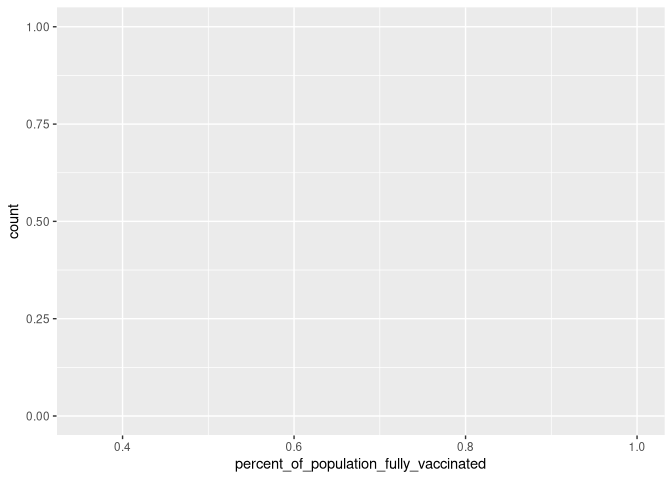
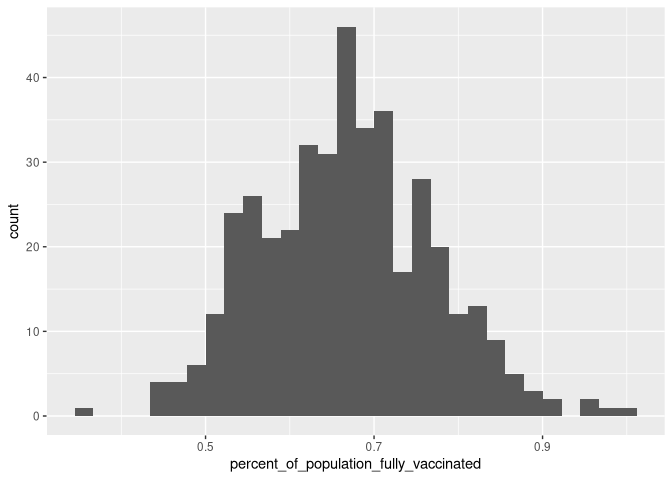
Knit to github document

diff --git a/class_17/lab_17-Reddan.md b/class_17/lab_17-Reddan.md
@@ -93,15 +93,15 @@ head(vax)
     ## 5 Information redacted in accordance with CA state privacy requirements
     ## 6 Information redacted in accordance with CA state privacy requirements
 
-#### \[Q01\]: What column details the total number of people fully vaccinated?
+Q01: What column details the total number of people fully vaccinated?
 
 `persons_fully_vaccinated`
 
-#### \[Q02\]: What column details the Zip code tabulation area?
+Q02: What column details the Zip code tabulation area?
 
 `zip_code_tabulation_area`
 
-#### \[Q03\]: What is the earliest date in this dataset?
+Q03: What is the earliest date in this dataset?
 
 ``` r
 vax %>% 
@@ -111,7 +111,7 @@ vax %>%
 
     ## [1] "2021-01-05"
 
-#### \[Q04\]: What is the latest date in this dataset?
+Q04: What is the latest date in this dataset?
 
 ``` r
 vax %>%
@@ -163,15 +163,17 @@ Data summary
 | percent_of_population_partially_vaccinated |      8355 |          0.90 |     0.10 |     0.10 |     0 |     0.06 |     0.07 |     0.11 |      1.0 | ▇▁▁▁▁ |
 | percent_of_population_with_1\_plus_dose    |      8355 |          0.90 |     0.51 |     0.26 |     0 |     0.31 |     0.53 |     0.71 |      1.0 | ▅▅▇▇▃ |
 
-#### \[Q05\]: How many numeric columns are in this dataset?
+Q05: How many numeric columns are in this dataset?
 
 9
 
-#### \[Q06\]: Note that there are “missing values” in the dataset. How many `NA` values there in the `persons_fully_vaccinated` column?
+Q06: Note that there are “missing values” in the dataset. How many `NA`
+values there in the `persons_fully_vaccinated` column?
 
 8355
 
-#### \[Q07\]: What percent of `persons_fully_vaccinated` values are missing (to 2 significant figures)?
+Q07: What percent of `persons_fully_vaccinated` values are missing (to 2
+significant figures)?
 
 ``` r
 round((1 - 0.899)*100, 2)
@@ -179,7 +181,11 @@ round((1 - 0.899)*100, 2)
 
     ## [1] 10.1
 
-#### \[Q08\]: Why might this data be missing?
+Q08: Why might this data be missing?
+
+Some area codes, such as military bases, may have certain restrictions
+for data release and transparency, resulting in a lack of data in the
+report.
 
 # Working with Dates
 
@@ -187,7 +193,7 @@ round((1 - 0.899)*100, 2)
 today()
 ```
 
-    ## [1] "2021-11-24"
+    ## [1] "2021-12-05"
 
 ``` r
 vax$as_of_date <- ymd(vax$as_of_date)
@@ -197,7 +203,7 @@ vax$as_of_date <- ymd(vax$as_of_date)
 today() - vax$as_of_date[1]
 ```
 
-    ## Time difference of 323 days
+    ## Time difference of 334 days
 
 ``` r
 vax$as_of_date[nrow(vax)] - vax$as_of_date[1]
@@ -205,7 +211,7 @@ vax$as_of_date[nrow(vax)] - vax$as_of_date[1]
 
     ## Time difference of 322 days
 
-#### \[Q09\]: How many days have passed since the last update of the dataset?
+Q09: How many days have passed since the last update of the dataset?
 
 ``` r
 last_update <- vax %>%
@@ -215,9 +221,10 @@ last_update <- vax %>%
 today() - last_update
 ```
 
-    ## Time difference of 1 days
+    ## Time difference of 12 days
 
-#### \[Q10\]: How many unique dates are in the dataset (i.e. how many different dates are detailed)
+Q10: How many unique dates are in the dataset (i.e. how many different
+dates are detailed)
 
 ``` r
 length(unique(vax$as_of_date))
@@ -227,9 +234,12 @@ length(unique(vax$as_of_date))
 
 # Working with ZIP Codes
 
-\<!–>`{r}<--> <!-->geocode_zip("92037")<--> <!-->`\<–>
-
-\<!–>`{r}<--> <!-->zip_distan<--> <!-->`\<–>
+<!--```{r}-->
+<!--geocode_zip("92037")-->
+<!--```-->
+<!--```{r}-->
+<!--zip_distance-->
+<!--```-->
 
 # Focus on the San Diego Area
 
@@ -250,7 +260,7 @@ sd.10 <- vax %>%
   filter(age5_plus_population > 10000)
 ```
 
-#### \[Q11\]: How many distinct zip codes are listed for San Diego County?
+Q11: How many distinct zip codes are listed for San Diego County?
 
 ``` r
 length(unique(sd$zip_code_tabulation_area))
@@ -258,7 +268,8 @@ length(unique(sd$zip_code_tabulation_area))
 
     ## [1] 107
 
-#### \[Q12\]: What San Diego County Zip code area has the largest 12 + Population in this dataset?
+Q12: What San Diego County Zip code area has the largest 12 + Population
+in this dataset?
 
 ``` r
 sd %>%
@@ -268,7 +279,8 @@ sd %>%
 
     ## [1] 92154
 
-#### \[Q13\]: What is the overall average “Percent of Population Fully Vaccinated” value for all San Diego “County” as of “2021-11-09”?
+Q13: What is the overall average “Percent of Population Fully
+Vaccinated” value for all San Diego “County” as of “2021-11-09”?
 
 ``` r
 sd.yest <- sd %>%
@@ -280,7 +292,9 @@ paste(round(mean(sd.yest$percent_of_population_fully_vaccinated)*100, 2), "%", s
 
     ## [1] "67.4%"
 
-#### \[Q14\]: Using either ggplot or base R graphics make a summary figure that shows the distribution of Percent of Population Fully Vaccinated values as of “2021-11-09”?
+Q14: Using either ggplot or base R graphics make a summary figure that
+shows the distribution of Percent of Population Fully Vaccinated values
+as of “2021-11-09”?
 
 ``` r
 hist(sd.yest$percent_of_population_fully_vaccinated,
@@ -302,7 +316,8 @@ ucsd$age5_plus_population[1]
 
     ## [1] 36144
 
-#### \[Q15\]: Using ggplot make a graph of the vaccination rate time course for the 92037 ZIP code area:
+Q15: Using ggplot make a graph of the vaccination rate time course for
+the 92037 ZIP code area:
 
 ``` r
 ggplot(data = ucsd) +
@@ -326,7 +341,10 @@ vax.lj_pop <- vax %>%
   filter(as_of_date == "2021-11-23")
 ```
 
-#### \[Q16\]: Calculate the mean “Percent of Population Fully Vaccinated” for ZIP code areas with a population as large as 92037 (La Jolla) as_of_date “2021-11-23”. Add this as a straight horizontal line to your plot from above with the geom_hline() function?
+Q16: Calculate the mean “Percent of Population Fully Vaccinated” for ZIP
+code areas with a population as large as 92037 (La Jolla) as_of_date
+“2021-11-23”. Add this as a straight horizontal line to your plot from
+above with the geom_hline() function?
 
 The mean is 66.78%.
 
@@ -347,7 +365,10 @@ ggplot(data = ucsd) +
 
 ![](lab_17-Reddan_files/figure-gfm/unnamed-chunk-24-1.png)<!-- -->
 
-#### \[Q17\]: What is the 6 number summary (Min, 1st Qu., Median, Mean, 3rd Qu., and Max) of the “Percent of Population Fully Vaccinated” values for ZIP code areas with a population as large as 92037 (La Jolla) as_of_date “2021-11-23”?
+Q17: What is the 6 number summary (Min, 1st Qu., Median, Mean, 3rd Qu.,
+and Max) of the “Percent of Population Fully Vaccinated” values for ZIP
+code areas with a population as large as 92037 (La Jolla) as_of_date
+“2021-11-23”?
 
 ``` r
 summary(vax.lj_pop$percent_of_population_fully_vaccinated)
@@ -356,17 +377,20 @@ summary(vax.lj_pop$percent_of_population_fully_vaccinated)
     ##    Min. 1st Qu.  Median    Mean 3rd Qu.    Max. 
     ##  0.3552  0.5939  0.6698  0.6678  0.7350  1.0000
 
-#### \[Q18\]: Using ggplot generate a histogram of this data.
+Q18: Using ggplot generate a histogram of this data.
 
 ``` r
 ggplot(data = vax.lj_pop) + 
   aes(x = percent_of_population_fully_vaccinated) +
-  geom_bar()
+  geom_histogram()
 ```
+
+    ## `stat_bin()` using `bins = 30`. Pick better value with `binwidth`.
 
 ![](lab_17-Reddan_files/figure-gfm/unnamed-chunk-26-1.png)<!-- -->
 
-#### \[Q20\]: Is the 92109 and 92040 ZIP code areas above or below the average value you calculated for all these above?
+Q20: Is the 92109 and 92040 ZIP code areas above or below the average
+value you calculated for all these above?
 
 ``` r
 avg_vax_rate <- mean(vax.lj_pop$percent_of_population_fully_vaccinated)
@@ -378,7 +402,17 @@ zc_92109 <- vax %>%
 zc_92040 <- vax %>%
   filter(as_of_date == "2021-11-23") %>%
   filter(zip_code_tabulation_area == 92040)
+
+zc_92109$percent_of_population_fully_vaccinated > avg_vax_rate
 ```
+
+    ## [1] TRUE
+
+``` r
+zc_92040$percent_of_population_fully_vaccinated > avg_vax_rate
+```
+
+    ## [1] FALSE
 
 ``` r
 sd.lj_pop <- sd %>%
@@ -431,3 +465,44 @@ ggplot(data = vax.lj_pop_all) +
     ## Warning: Removed 176 row(s) containing missing values (geom_path).
 
 ![](lab_17-Reddan_files/figure-gfm/unnamed-chunk-31-1.png)<!-- -->
+
+# Session Information
+
+``` r
+sessionInfo()
+```
+
+    ## R version 4.1.2 (2021-11-01)
+    ## Platform: x86_64-pc-linux-gnu (64-bit)
+    ## Running under: Arch Linux
+    ## 
+    ## Matrix products: default
+    ## BLAS:   /usr/lib/libblas.so.3.10.0
+    ## LAPACK: /usr/lib/liblapack.so.3.10.0
+    ## 
+    ## locale:
+    ##  [1] LC_CTYPE=en_US.UTF-8       LC_NUMERIC=C              
+    ##  [3] LC_TIME=en_US.UTF-8        LC_COLLATE=en_US.UTF-8    
+    ##  [5] LC_MONETARY=en_US.UTF-8    LC_MESSAGES=en_US.UTF-8   
+    ##  [7] LC_PAPER=en_US.UTF-8       LC_NAME=C                 
+    ##  [9] LC_ADDRESS=C               LC_TELEPHONE=C            
+    ## [11] LC_MEASUREMENT=en_US.UTF-8 LC_IDENTIFICATION=C       
+    ## 
+    ## attached base packages:
+    ## [1] stats     graphics  grDevices utils     datasets  methods   base     
+    ## 
+    ## other attached packages:
+    ## [1] ggplot2_3.3.5   lubridate_1.8.0 dplyr_1.0.7    
+    ## 
+    ## loaded via a namespace (and not attached):
+    ##  [1] highr_0.9        pillar_1.6.4     compiler_4.1.2   base64enc_0.1-3 
+    ##  [5] tools_4.1.2      digest_0.6.28    jsonlite_1.7.2   evaluate_0.14   
+    ##  [9] lifecycle_1.0.1  tibble_3.1.6     gtable_0.3.0     pkgconfig_2.0.3 
+    ## [13] rlang_0.4.12     DBI_1.1.1        yaml_2.2.1       xfun_0.28       
+    ## [17] fastmap_1.1.0    repr_1.1.3       withr_2.4.2      stringr_1.4.0   
+    ## [21] knitr_1.36       generics_0.1.1   vctrs_0.3.8      grid_4.1.2      
+    ## [25] tidyselect_1.1.1 glue_1.5.0       R6_2.5.1         fansi_0.5.0     
+    ## [29] rmarkdown_2.11   farver_2.1.0     tidyr_1.1.4      purrr_0.3.4     
+    ## [33] skimr_2.1.3      magrittr_2.0.1   scales_1.1.1     ellipsis_0.3.2  
+    ## [37] htmltools_0.5.2  assertthat_0.2.1 colorspace_2.0-2 labeling_0.4.2  
+    ## [41] utf8_1.2.2       stringi_1.7.6    munsell_0.5.0    crayon_1.4.2
